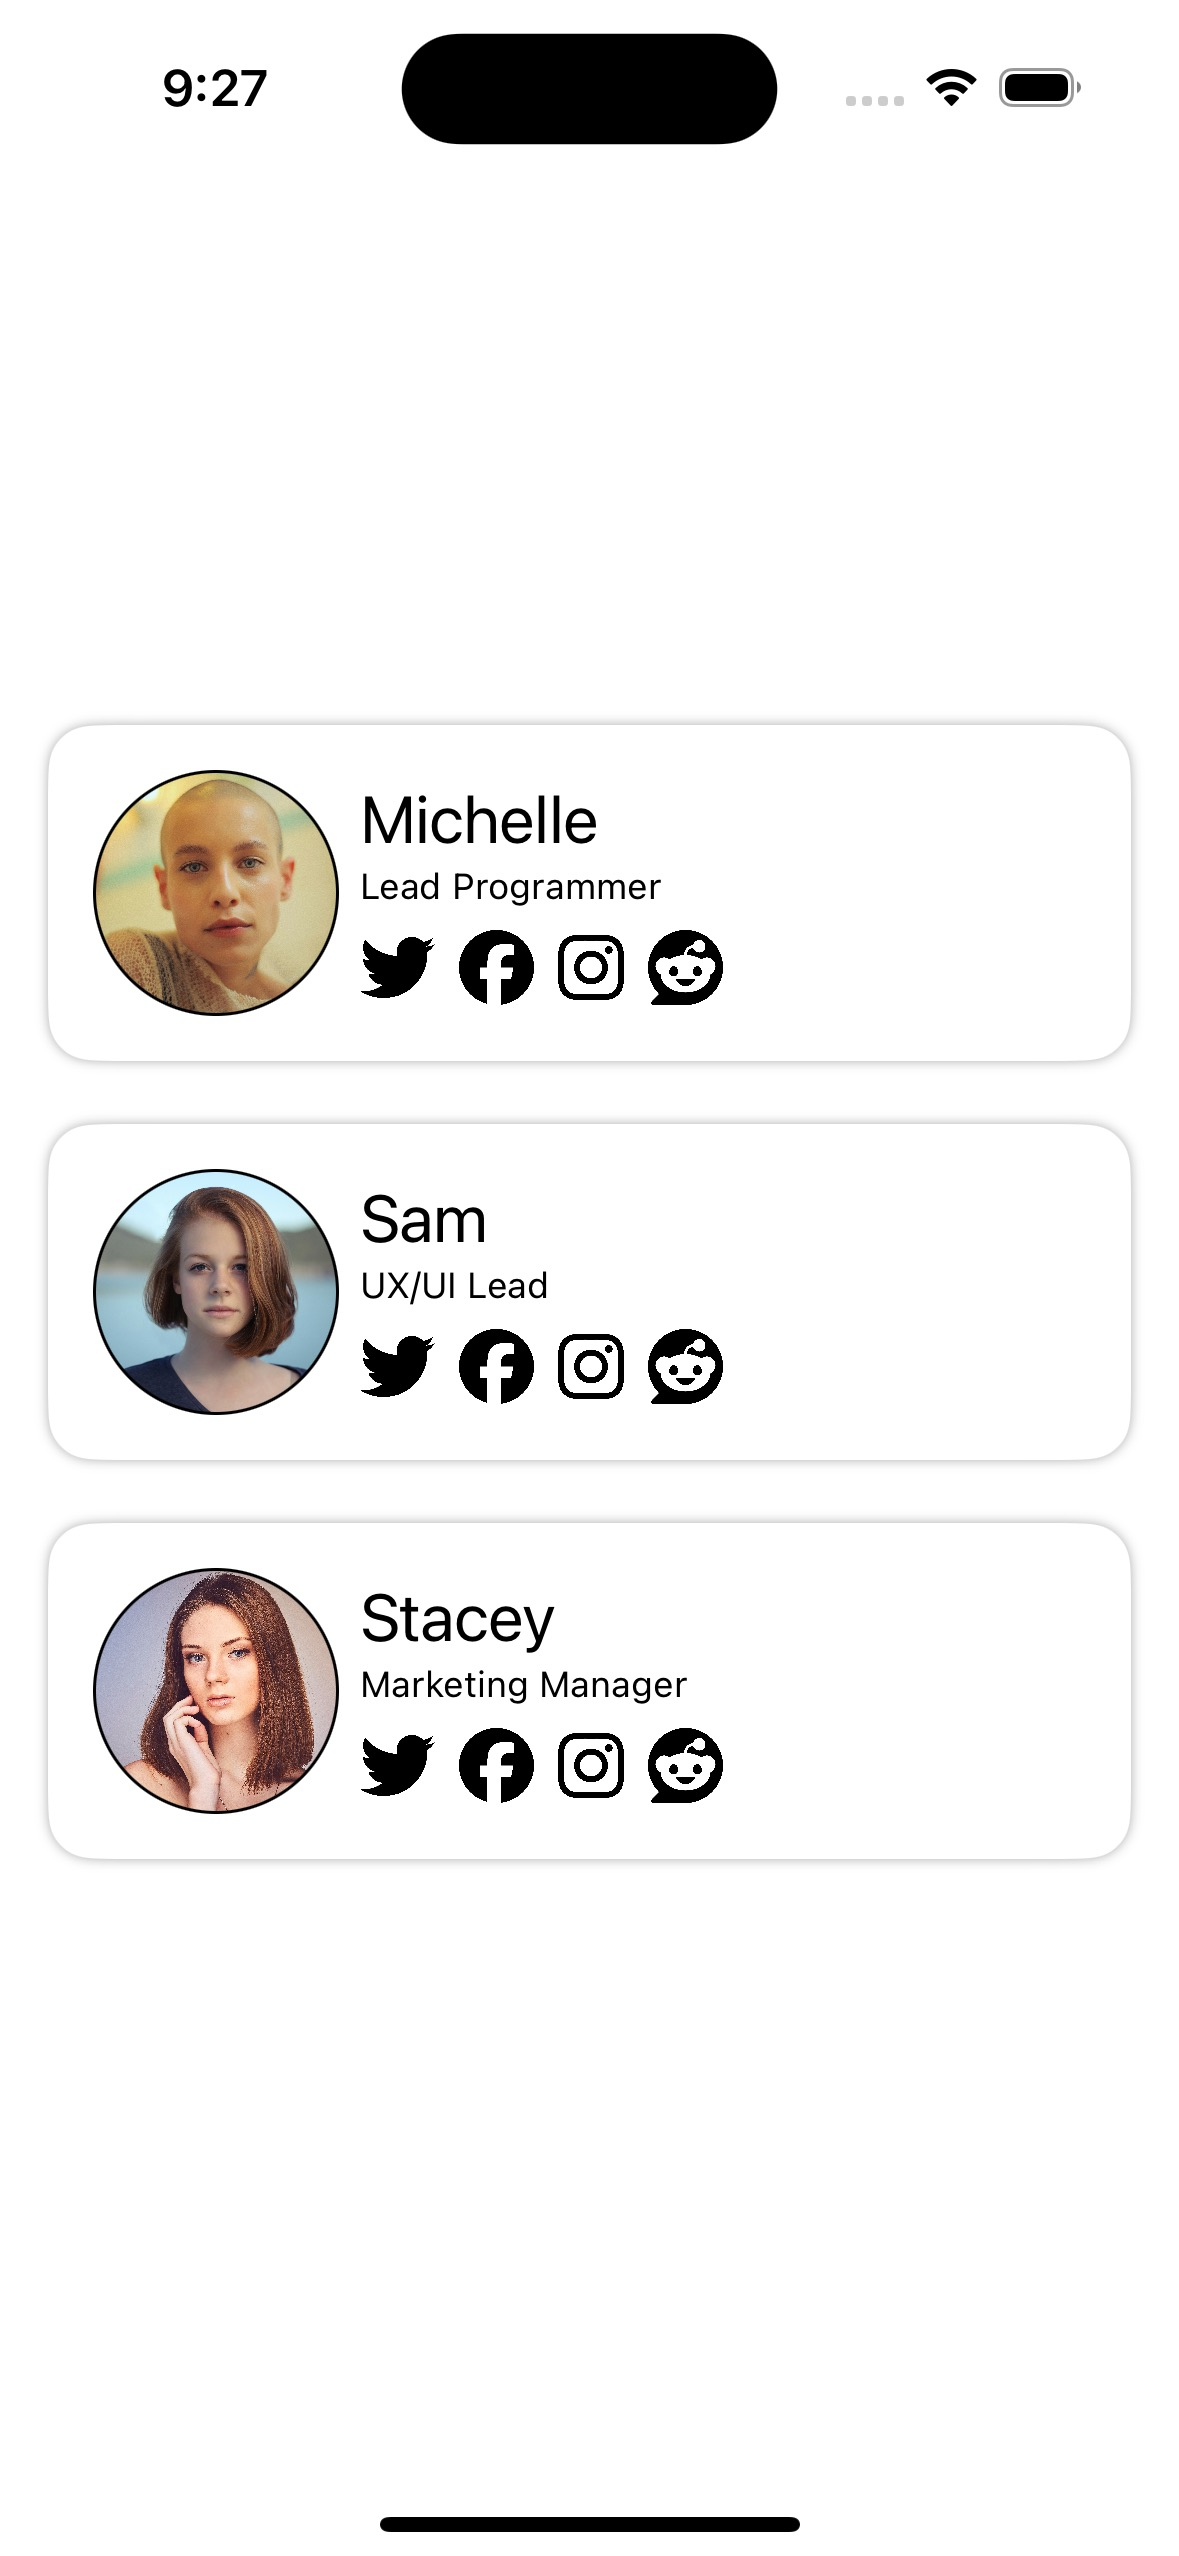
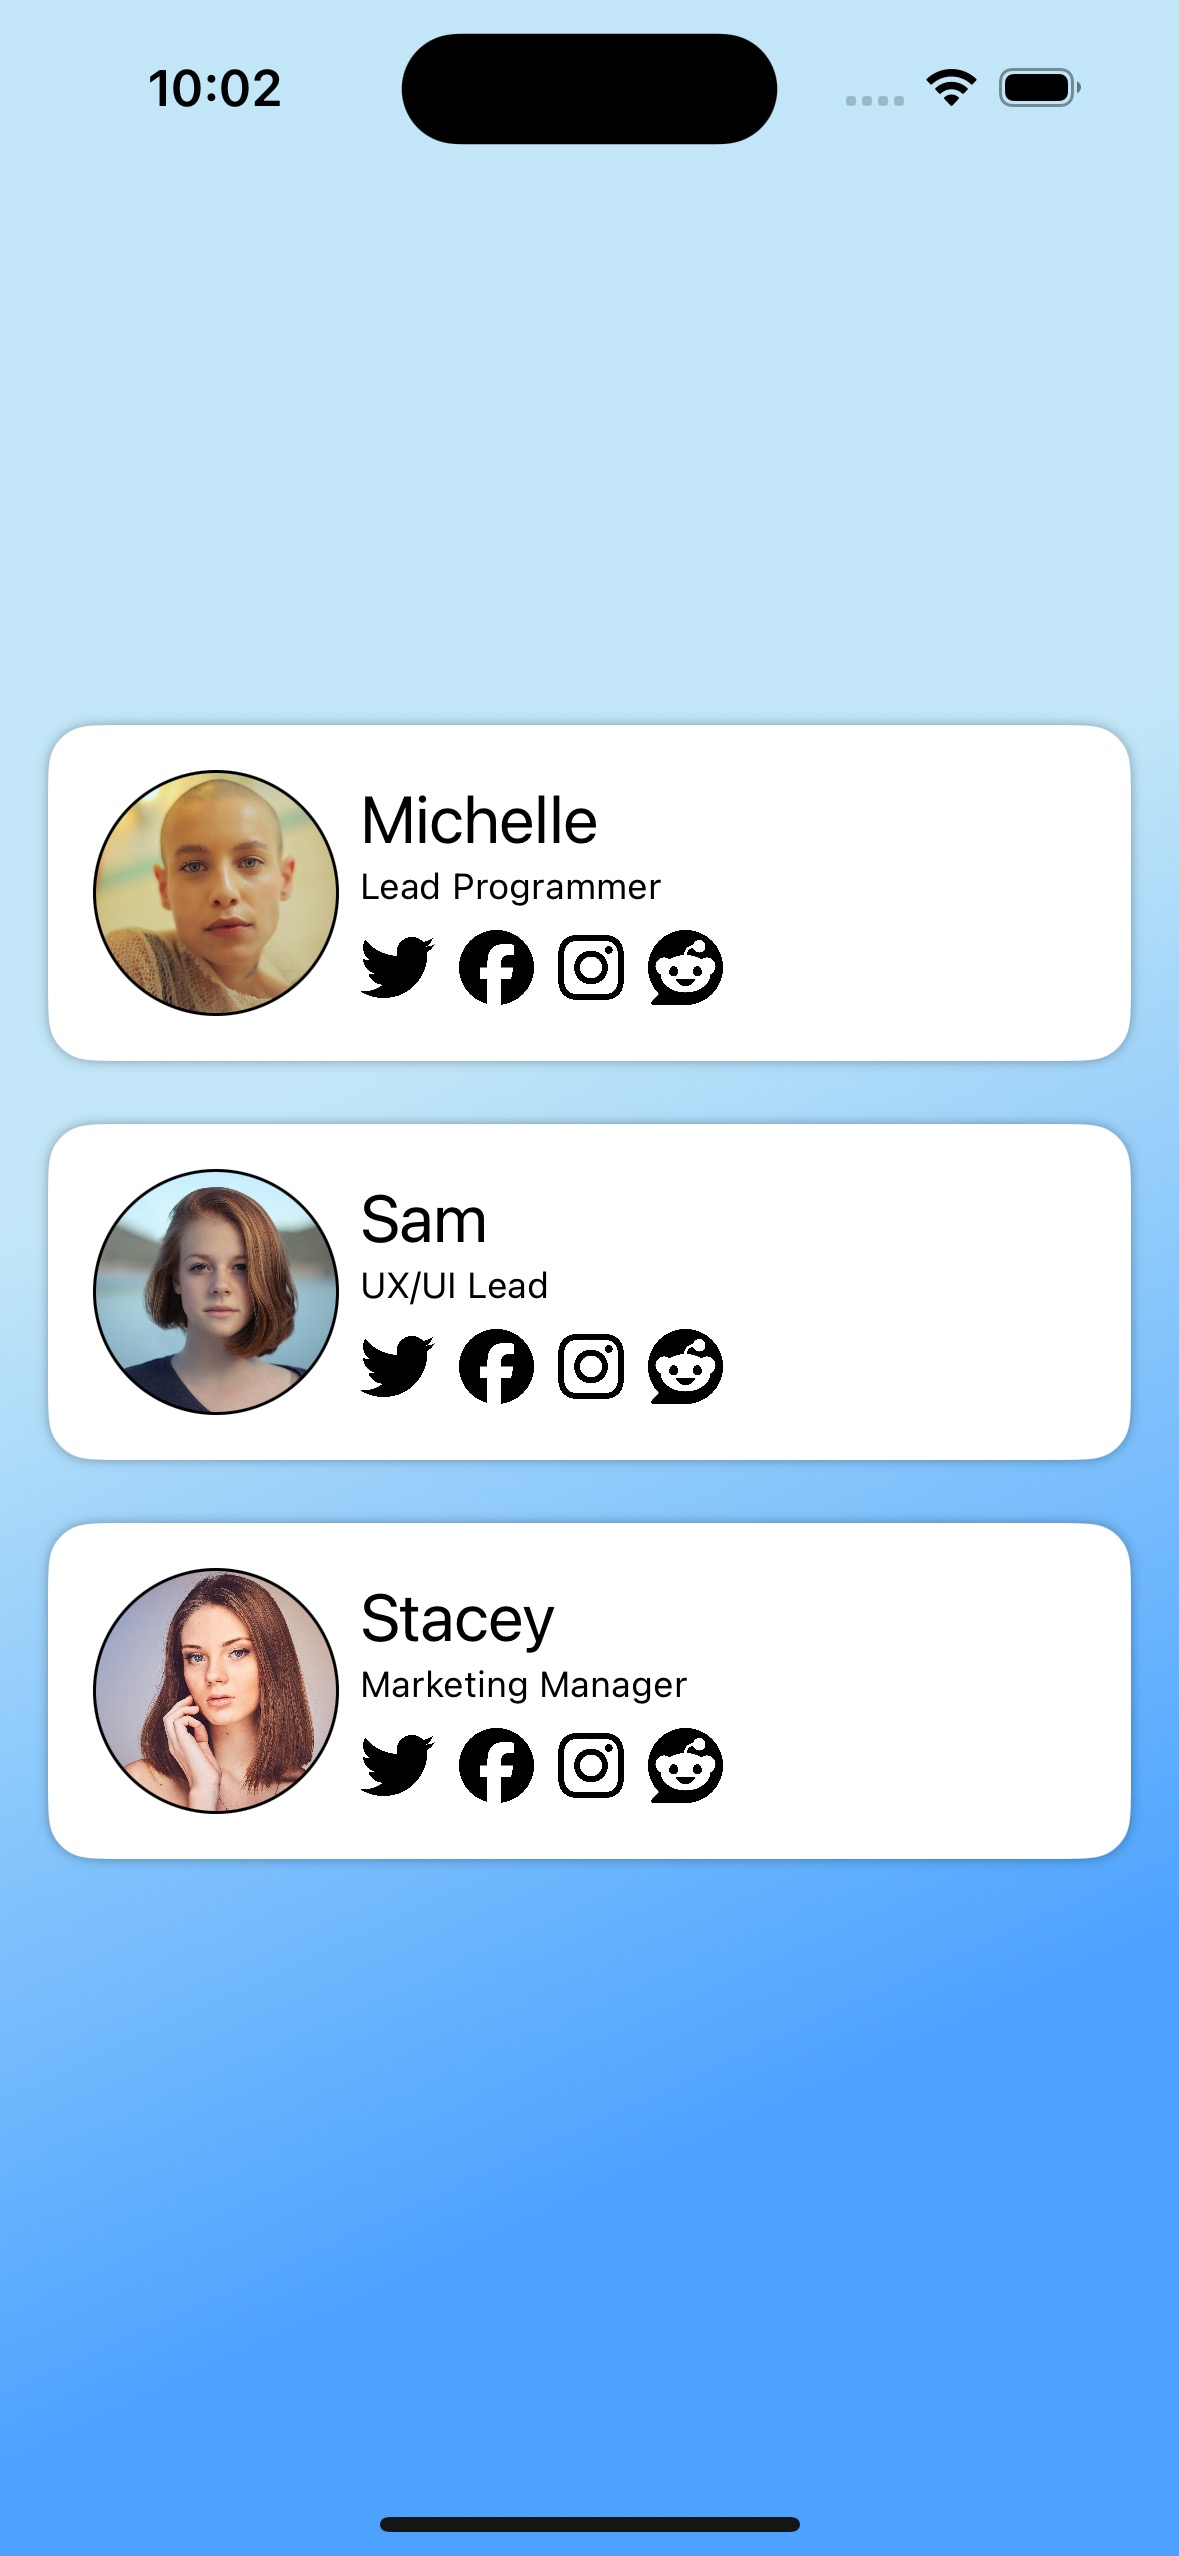
added dark mode screenshot

diff --git a/Profiles/SocialMediaProfile/SocialMediaProfile/ContentView.swift b/Profiles/SocialMediaProfile/SocialMediaProfile/ContentView.swift
@@ -8,12 +8,37 @@
 import SwiftUI
 
 struct ContentView: View {
+  @Environment(\.colorScheme) var colorScheme
+  
   @State private var socialAccounts = ["twitter", "facebook", "instagram", "reddit"]
+  
+  var topColor: Color {
+    if colorScheme == .dark {
+      return .gray.opacity(0.5)
+    }
+    return .cyan.opacity(0.3)
+  }
+  
+  var bottomColor: Color {
+    if colorScheme == .dark {
+      return .white.opacity(0.5)
+    }
+    return .blue.opacity(0.7)
+  }
+  
   var body: some View {
-    VStack(spacing: 5) {
-      ProfileView(profileImage: "avatar1", name: "Michelle", title: "Lead Programmer", socialAccounts: socialAccounts)
-      ProfileView(profileImage: "avatar2", name: "Sam", title: "UX/UI Lead", socialAccounts: socialAccounts)
-      ProfileView(profileImage: "avatar3", name: "Stacey", title: "Marketing Manager", socialAccounts: socialAccounts)
+    ZStack{
+      LinearGradient(gradient: Gradient(stops: [
+        .init(color: topColor, location: 0.4),
+        .init(color: bottomColor, location: 0.8)
+      ]), startPoint: .topLeading, endPoint: .bottomTrailing
+      )
+      .ignoresSafeArea()
+      VStack(spacing: 5) {
+        ProfileView(profileImage: "avatar1", name: "Michelle", title: "Lead Programmer", socialAccounts: socialAccounts)
+        ProfileView(profileImage: "avatar2", name: "Sam", title: "UX/UI Lead", socialAccounts: socialAccounts)
+        ProfileView(profileImage: "avatar3", name: "Stacey", title: "Marketing Manager", socialAccounts: socialAccounts)
+      }
     }
   }
 }

diff --git a/Profiles/SocialMediaProfile/SocialMediaProfile/ProfileView.swift b/Profiles/SocialMediaProfile/SocialMediaProfile/ProfileView.swift
@@ -29,8 +29,10 @@ struct ProfileView: View {
         VStack(alignment: .leading) {
           Text(name)
             .font(.title2)
+            .foregroundStyle(.black)
           Text(title)
             .font(.caption)
+            .foregroundStyle(.gray)
           
           HStack {
             ForEach(socialAccounts, id: \.self) {

diff --git a/Profiles/SocialMediaProfile/README.md b/Profiles/SocialMediaProfile/README.md
@@ -3,7 +3,10 @@
 Basic profile view with social media icons for SwiftUI
 
 <picture>
-<img src="screenshot.jpg" height="500px">
+<img src="screenshot-light.jpg" height="500px">
+</picture>
+<picture>
+<img src="screenshot-dark.jpg" height="500px">
 </picture>
 
 ### Photo Attribution
